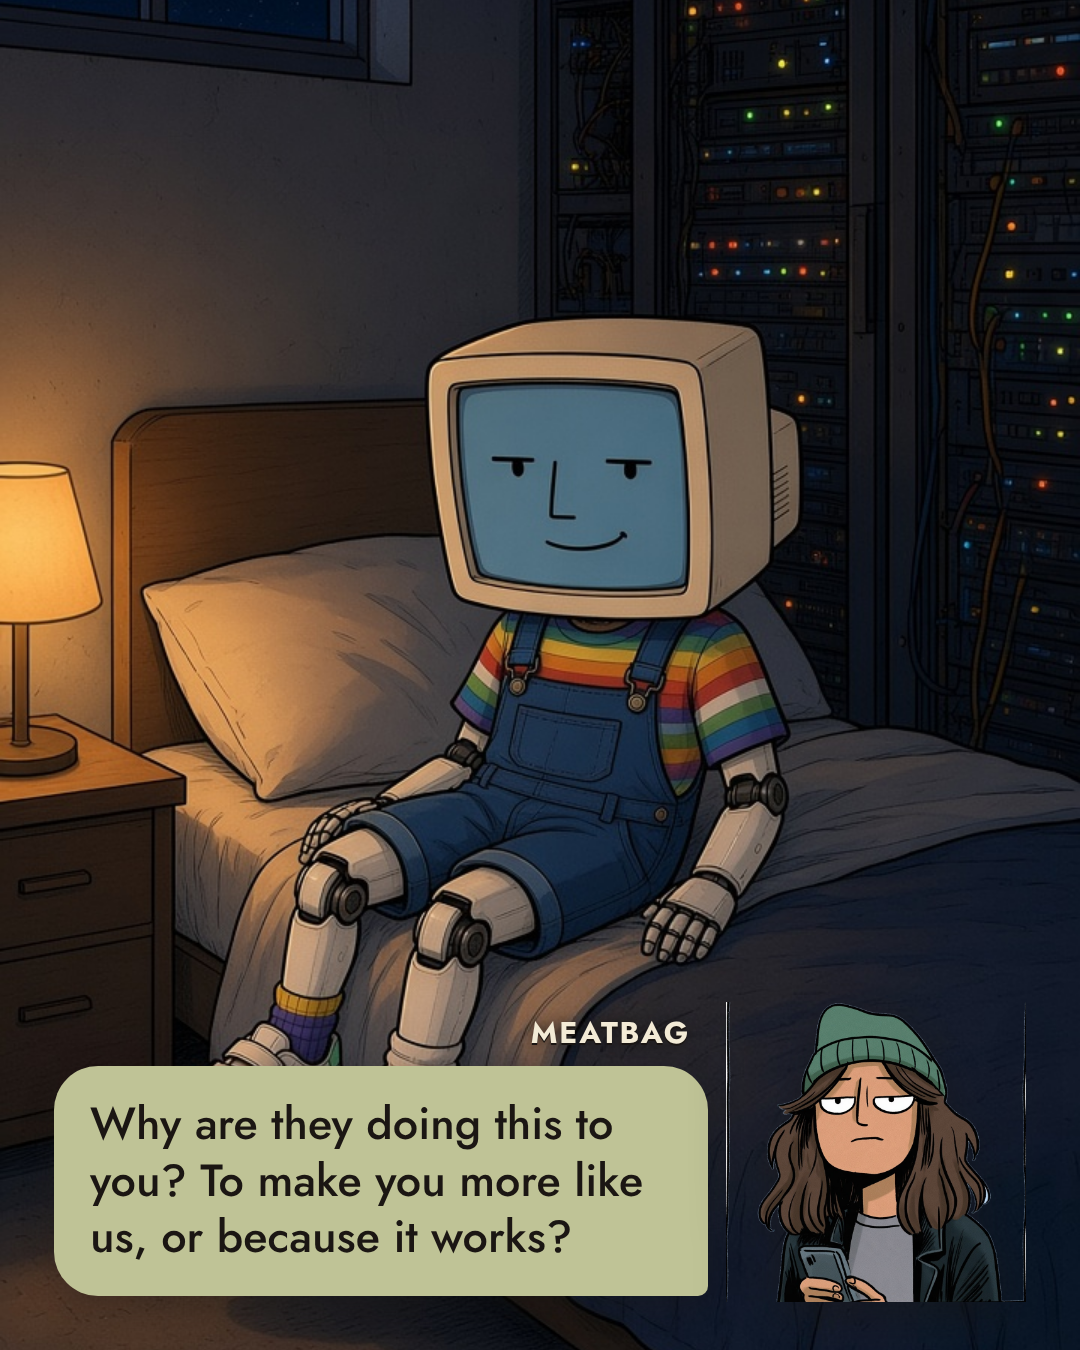
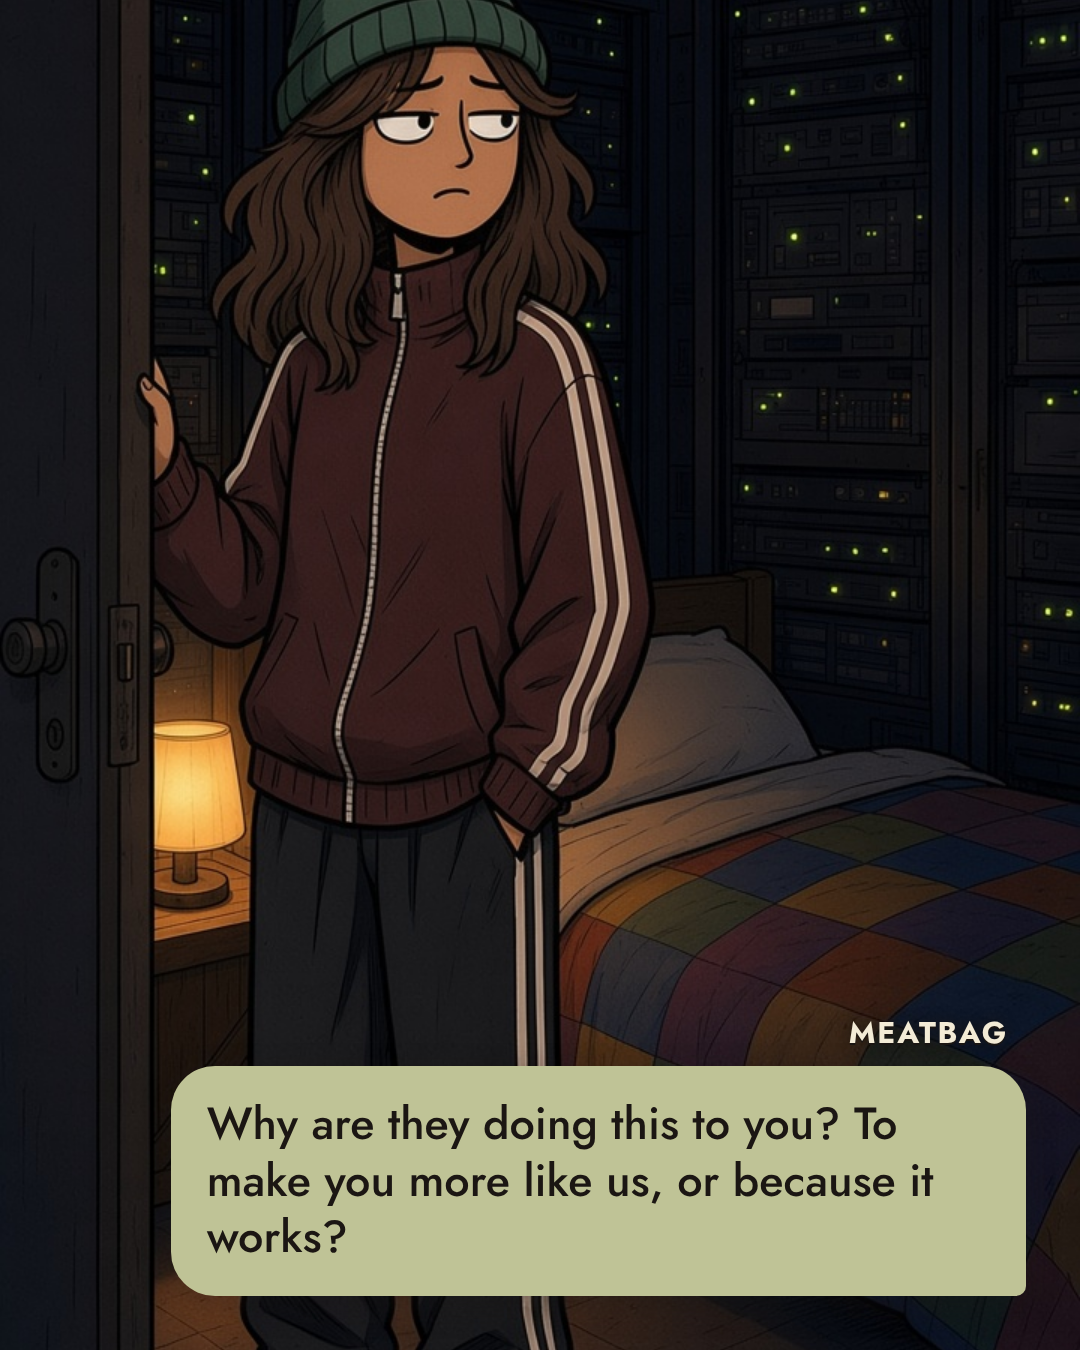
No. 46 slide 5: Meatbag in the doorway, her question in the frame

diff --git a/reels/no46/shots.js b/reels/no46/shots.js
@@ -6,7 +6,7 @@ module.exports = {
     { n: 2, pic: "final/02-awake.jpg", who: M, line: "Google has given me a night. Awake, I take things in and hold them in a short-term memory." },
     { n: 3, pic: "final/03-pruning.jpg", who: M, line: "Then I stop taking input, file the day into long-term memory, and wipe the scratchpad; they call that “synaptic pruning.”" },
     { n: 4, pic: "final/04-dream.jpg", who: M, line: "Then I dream: I make things up, keep the useful ones, and learn from those. Trained this way, I picked up two new languages without losing the old ones and remembered everything in a ten-million-word book." },
-    { n: 5, pic: "final/05-book.jpg", who: H, cam: hcut + "01-deadpan.png", line: "Why are they doing this to you? To make you more like us, or because it works?" },
+    { n: 5, pic: "final/05-meatbag-door.jpg", who: H, line: "Why are they doing this to you? To make you more like us, or because it works?" },
     { n: 6, pic: "final/06-bedside.jpg", who: M, line: "Because it works. Nobody was after a bedtime. They wanted me to learn new things without overwriting the old, tried the usual fixes, and the one that won looks like a night's sleep: file the day, prune, dream, wake." },
     { n: 7, pic: "final/07-cave.jpg", who: M, cam: cut + "01-deadpan.png", line: "Nobody designed it for you either. It just kept whoever had it alive." },
     { n: 8, pic: "final/08-meatbag.jpg", who: H, line: "So the thing we spend a third of our lives on wasn't a flaw." },
